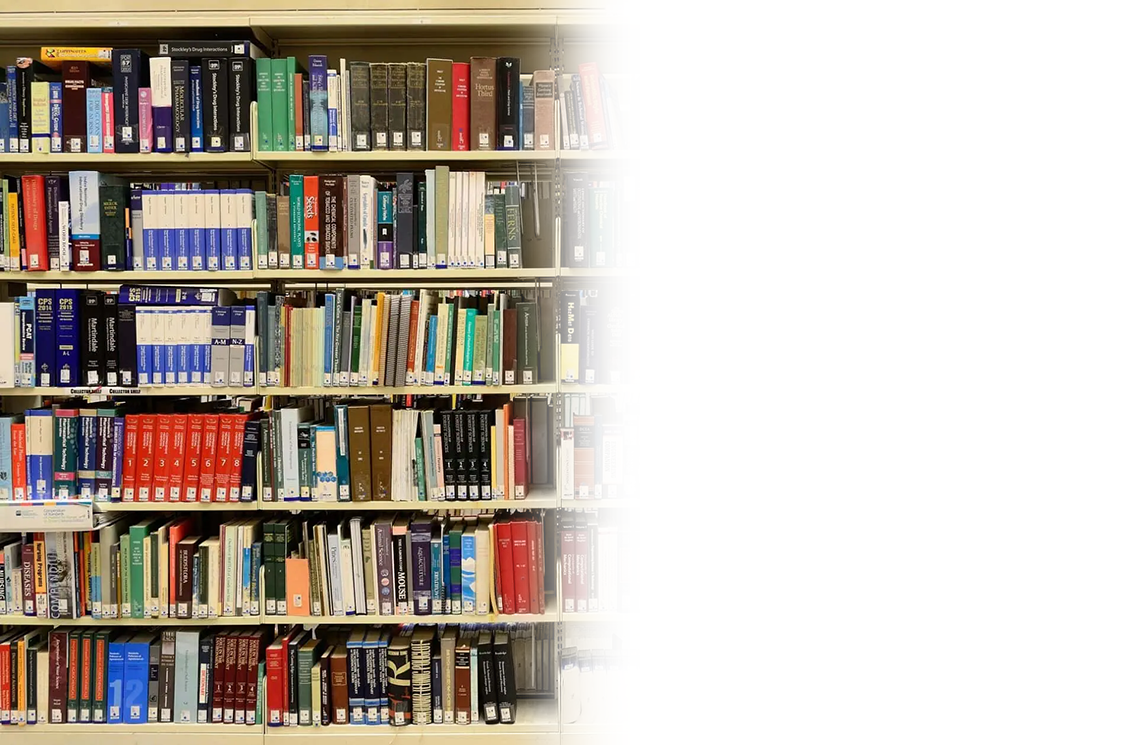
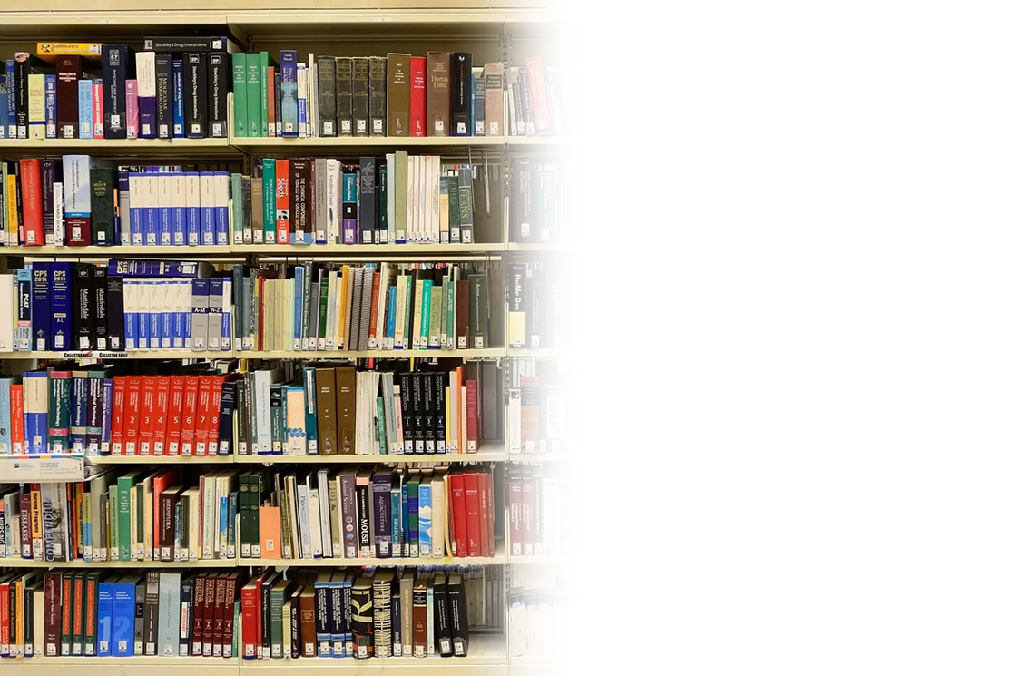
some html change

diff --git a/sistema-biblioteca/src/main/resources/templates/fragments/rents.html b/sistema-biblioteca/src/main/resources/templates/fragments/rents.html
@@ -39,14 +39,16 @@
 
             <!-- Titolo e Autore del Libro -->
             <div class="mb-2">
-                <div class="flex align-center gap-2">
+                <div class="flex justify-row gap-2">
                     <h3 class="text-2xl italic fw-700 text-brand mb-1"
                         th:text="${rent.book != null ? rent.book.title : 'N/A'}"></h3>
-                </div>
-                <div class="flex align-center gap-2">
                     <p class="text-2xl fw-400 opacity-60 mb-3"
                         th:text="${rent.book != null ? rent.book.authorFullName : 'N/A'}"></p>
                 </div>
+                <!-- <div class="flex align-center gap-2">
+                    <p class="text-2xl fw-400 opacity-60 mb-3"
+                        th:text="${rent.book != null ? rent.book.authorFullName : 'N/A'}"></p>
+                </div> -->
                 <div class="flex align-center gap-2">
                     <div th:if="${user.userRole == 'role_admin'}"
                         class="category-label font-mono italic tracking-widest opacity-80 uppercase"
@@ -59,32 +61,32 @@
                 <!-- Data Prenotazione -->
                 <div th:if="${rent.book.status == 'prenotato'}" class="flex align-center font-size-small">
                     <i class="fa-solid fa-calendar-plus text-sm text-brand pr-1"></i>
-                    <label class="fw-600" title="Prenotato il" th:text="${#temporals.format(rent.bookingDate, 'dd-MM-yyyy')}">Data Prenotazione</label>
+                    <label class="fw-600" title="Data Prenotazione" th:text="${#temporals.format(rent.bookingDate, 'dd-MM-yyyy')}">Data Prenotazione</label>
                 </div>
                 
                 <!-- Data di Inizio Noleggio -->
                 <div th:if="${rent.book.status != 'prenotato'}" class="flex align-center font-size-small">
                     <i class="fa-solid fa-calendar-check text-sm text-brand pr-1"></i>
-                    <label class="fw-600" title="Preso il" th:text="${#temporals.format(rent.rentalDate, 'dd-MM-yyyy')}">Inizio</label>
+                    <label class="fw-600" title="Data inizio prestito" th:text="${#temporals.format(rent.rentalDate, 'dd-MM-yyyy')}">Inizio</label>
                 </div>
 
                 <!-- Data di Scadenza -->
                 <div th:if="${rent.book.status != 'prenotato'}" class="flex align-center font-size-small">
                     <i class="fa-regular fa-clock text-sm text-brand pr-1"></i>
-                    <label class="fw-600" title="Scadenza" th:text="${#temporals.format(rent.rentalExpired, 'dd-MM-yyyy')}">Scadenza</label>
+                    <label class="fw-600" title="Data scadenza prestito" th:text="${#temporals.format(rent.rentalExpired, 'dd-MM-yyyy')}">Scadenza</label>
                 </div>
 
                 <!-- Codice ISBN -->
                 <div th:if="${user.userRole == 'role_admin' and rent.book != null}"
                     class="flex align-center font-size-small">
                     <i class="fa-solid fa-barcode text-sm text-brand pr-1"></i>
-                    <label class="font-mono fw-600" title="ISBN" th:text="${rent.book.isbn}">ISBN</label>
+                    <label class="font-mono fw-600" title="Codice ISBN" th:text="${rent.book.isbn}">ISBN</label>
                 </div>
 
                 <!-- ID Utente (Utile per gli Admin) -->
                 <div th:if="${user.userRole == 'role_admin'}" class="flex align-center font-size-small">
                     <i class="fa-solid fa-user text-sm text-brand pr-1"></i>
-                    <label class="fw-600" title="Utente" th:text="${rent.user.userName + ' ' + rent.user.userLastName}">USER</label>
+                    <label class="fw-600" title="Dipendente" th:text="${rent.user.userName + ' ' + rent.user.userLastName}">USER</label>
                 </div>
             </div>
         </div>
@@ -113,13 +115,13 @@
                     th:data-url="@{/api/delivered(bookID=${rent.bookId}, rentID=${rent.rentId})}"
                     onclick="triggerConfirmDelivered(this)"
                     class="w-100 btn-modern-action pointer transition shadow-soft">
-                    <span>Consegnato</span>
+                    <span>Conferma richiesta</span>
                 </button>
                 <button type="button" th:if="${rent.book != null && rent.book.status == 'in prestito' && user.userRole == 'role_admin'}" th:data-title="${rent.book.title}"
                     th:data-url="@{/api/returned(bookID=${rent.bookId}, rentID=${rent.rentId})}"
                     onclick="triggerConfirmReturned(this)"
                     class="w-100 btn-modern-action pointer transition shadow-soft">
-                    <span>Restituito</span>
+                    <span>Rientrato</span>
                 </button>
             </div>
         </div>

diff --git a/sistema-biblioteca/src/main/resources/templates/dashboard.html b/sistema-biblioteca/src/main/resources/templates/dashboard.html
@@ -45,59 +45,59 @@
 
         <!-- Sezione Home per admin-->
         <div th:if="${section == 'home' && user.userRole == 'role_admin'}"
-            class="dashboard-grid grid flex nowrap gap-3 animate-fade-in-up opacity-0 delay-1">
+            class="dashboard-grid grid flex justify-between nowrap gap-1 animate-fade-in-up opacity-0 delay-1">
 
             <!-- Card 1: Users totali -->
-            <div class="card glass radius-12 p-3 shadow-card flex flex-column justify-between border-none">
+            <div class="card glass radius-12 p-2 shadow-card flex flex-column justify-between border-none">
                 <div class="flex justify-between align-center mb-2">
                     <span class="opacity-70 font-size-small uppercase fw-700">Dipendenti Registrati</span>
                     <i class="fa-solid fa-users text-brand"></i>
                 </div>
-                <div class="flex align-end gap-2">
+                <div class="flex align-end gap-1">
                     <span class="text-3xl fw-700" th:text="${totalUsers}">totalUsers</span>
                 </div>
             </div>
 
             <!-- Card 2: Books totali -->
-            <div class="card glass radius-12 p-3 shadow-card flex flex-column justify-between border-none">
+            <div class="card glass radius-12 p-2 shadow-card flex flex-column justify-between border-none">
                 <div class="flex justify-between align-center mb-2">
                     <span class="opacity-70 font-size-small uppercase fw-700">Totale manuali</span>
                     <i class="fa-solid fa-book text-brand"></i>
                 </div>
-                <div class="flex align-end gap-2">
+                <div class="flex align-end gap-1">
                     <span class="text-3xl fw-700" th:text="${totalBooks}">totalBooks</span>
                 </div>
             </div>
 
             <!-- Card 3: Books disponibili -->
-            <div class="card glass radius-12 p-3 shadow-card flex flex-column justify-between border-none">
+            <div class="card glass radius-12 p-2 shadow-card flex flex-column justify-between border-none">
                 <div class="flex justify-between align-center mb-2">
                     <span class="opacity-70 font-size-small uppercase fw-700">Manuali disponibili</span>
                     <i class="fa-solid fa-check-to-slot text-success"></i>
                 </div>
-                <div class="flex align-end gap-2">
+                <div class="flex align-end gap-1">
                     <span class="text-3xl fw-700" th:text="${totalBooks - totalRents}">availableBooks</span>
                 </div>
             </div>
 
             <!-- Card 4: Books prenotati/prestati -->
-            <div class="card glass radius-12 p-3 shadow-card flex flex-column justify-between border-none">
+            <div class="card glass radius-12 p-2 shadow-card flex flex-column justify-between border-none">
                 <div class="flex justify-between align-center mb-2">
                     <span class="opacity-70 font-size-small uppercase fw-700">Manuali in prestito</span>
                     <i class="fa-solid fa-hand-holding-hand text-warning"></i>
                 </div>
-                <div class="flex align-end gap-2">
+                <div class="flex align-end gap-1">
                     <span class="text-3xl fw-700" th:text="${totalRents}">borrowedBooks</span>
                 </div>
             </div>
 
             <!-- Card 5: Books in attesa SOSTITUIRE TOTALRENTS CON TOTALPENDINGS-->
-            <div class="card glass radius-12 p-3 shadow-card flex flex-column justify-between border-none">
+            <div class="card glass radius-12 p-2 shadow-card flex flex-column justify-between border-none">
                 <div class="flex justify-between align-center mb-2">
                     <span class="opacity-70 font-size-small uppercase fw-700">Manuali in attesa</span>
                     <i class="fa-solid fa-clock text-info"></i>
                 </div>
-                <div class="flex align-end gap-2">
+                <div class="flex align-end gap-1">
                     <span class="text-3xl fw-700" th:text="${totalRents}">borrowedBooks</span>
                 </div>
             </div>

diff --git a/sistema-biblioteca/src/main/resources/templates/fragments/popup.html b/sistema-biblioteca/src/main/resources/templates/fragments/popup.html
@@ -7,7 +7,7 @@
                 <div class="icon-box-accent radius-12 p-3 flex center" style="flex-shrink:0;">
                     <i id="popupIcon" class="fa-solid fa-pen-to-square text-white font-size-medium"></i>
                 </div>
-                <h3 id="popupTitle" class="text-xl fw-700 text-brand leading-tight">Modifica Libro</h3>
+                <h3 id="popupTitle" class="text-xl fw-700 text-brand leading-tight">Modifica Dati</h3>
             </div>
             <button type="button" class="btn-icon-close cursor-pointer transition shadow-card" onclick="closePopup()"
                 title="Chiudi">
@@ -28,7 +28,7 @@
                 <div class="flex flex-column gap-5">
                     <div class="input-group">
                         <label class="text-xs uppercase fw-700 opacity-60 mb-2 block tracking-widest">Titolo
-                            Opera</label>
+                            Manuale</label>
                         <input type="text" id="editTitleInput"
                             class="w-100 p-4 radius-12 border-none font-size-small w-100"
                             placeholder="Esempio: Il Nome della Rosa">
@@ -464,10 +464,10 @@
             <div id="addUserContent" class="none animate-fade-in-up">
 
                 <!-- Banner info -->
-                <div class="add-user-banner radius-12 mb-6 flex align-center gap-3">
+                <div class="add-user-banner radius-12 mb-2 flex align-center gap-3">
                     <i class="fa-solid fa-circle-info add-user-banner-icon"></i>
                     <p class="text-xs fw-600 leading-relaxed opacity-90">
-                        Usa il formato mail aziendale &nbsp;<span class="font-mono fw-700">nome.cognome@biblioteca.it</span>
+                        Crea in automatico la mail aziendale &nbsp;<span class="font-mono fw-700">nome.cognome@biblioteca.it</span>
                     </p>
                 </div>
 
@@ -526,7 +526,7 @@
                                     <input type="radio" name="userRole" value="role_user" checked
                                         onchange="updateRoleSelection()">
                                     <div class="role-card">
-                                        <i class="fa-solid fa-user-tie role-icon"></i>
+                                        <!-- <i class="fa-solid fa-user-tie role-icon"></i> -->
                                         <span class="role-label">Dipendente</span>
                                         <span class="role-desc">Accesso standard</span>
                                     </div>
@@ -535,7 +535,7 @@
                                     <input type="radio" name="userRole" value="role_admin"
                                         onchange="updateRoleSelection()">
                                     <div class="role-card">
-                                        <i class="fa-solid fa-shield-halved role-icon"></i>
+                                        <!-- <i class="fa-solid fa-shield-halved role-icon"></i> -->
                                         <span class="role-label">Amministratore</span>
                                         <span class="role-desc">Accesso completo</span>
                                     </div>
@@ -554,7 +554,7 @@
                 </div>
                 <h4 class="text-2xl fw-700 mb-3 text-success">Dipendente inserito con successo!</h4>
                 <p class="opacity-70 leading-relaxed mb-6">
-                    Il profilo è stato registrato correttamente nel sistema.
+                    Il profilo è stato registrato nel sistema.
                 </p>
                 <div class="glass radius-16 p-4 text-left shadow-card border-none">
                     <div class="flex justify-between mb-2"><span class="opacity-60">Nome</span><strong id="addUserSuccessName"></strong></div>

diff --git a/sistema-biblioteca/src/main/resources/static/css/fragments/catalog.css b/sistema-biblioteca/src/main/resources/static/css/fragments/catalog.css
@@ -236,9 +236,21 @@
     animation: neonPulse 2s infinite ease-in-out;
 }
 
+.status-vibrant-booked .glass-indicator {
+    color: var(--color-warning);
+    border-color: rgba(75, 35, 253, 0.3) !important;
+    background: rgba(42, 0, 230, 0.05);
+}
+
+.status-vibrant-booked .dot {
+    background: var(--color-warning);
+    box-shadow: 0 0 10px rgba(27, 0, 230, 0.5);
+    color: var(--color-warning);
+    animation: neonPulse 2s infinite ease-in-out;
+}
 .status-vibrant-pending .glass-indicator {
     color: var(--color-warning);
-    border-color: rgba(230, 81, 0, 0.3) !important;
+    border-color: rgba(248, 113, 40, 0.3) !important;
     background: rgba(230, 81, 0, 0.05);
 }
 

diff --git a/sistema-biblioteca/src/main/java/it/controller/UserController.java b/sistema-biblioteca/src/main/java/it/controller/UserController.java
@@ -61,7 +61,7 @@ public class UserController {
             redirectAttributes.addFlashAttribute("popupUserName", userName + " " + userLastName);
             redirectAttributes.addFlashAttribute("popupUserEmail", newUser.getUserEmail());
             redirectAttributes.addFlashAttribute("popupUserRole",
-                    "role_admin".equalsIgnoreCase(userRole) ? "ROLE_ADMIN" : "ROLE_USER");
+                    "role_admin".equalsIgnoreCase(userRole) ? "Amministratore" : "Dipendente");
         } catch (IllegalArgumentException ex) {
             redirectAttributes.addFlashAttribute("popupType", "error");
             redirectAttributes.addFlashAttribute("popupErrorMessage", ex.getMessage());
